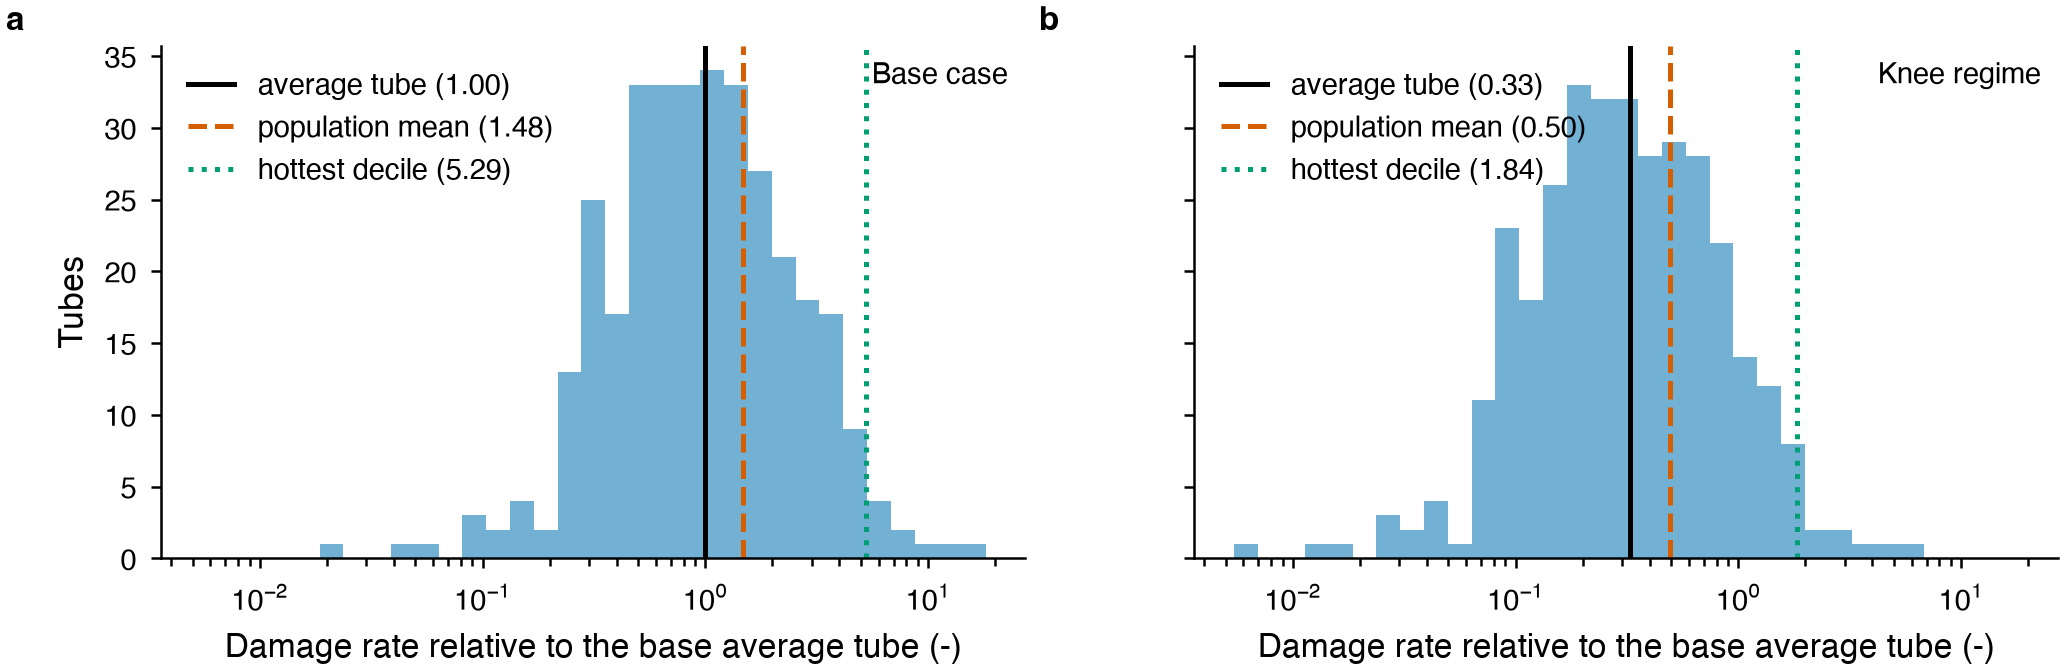
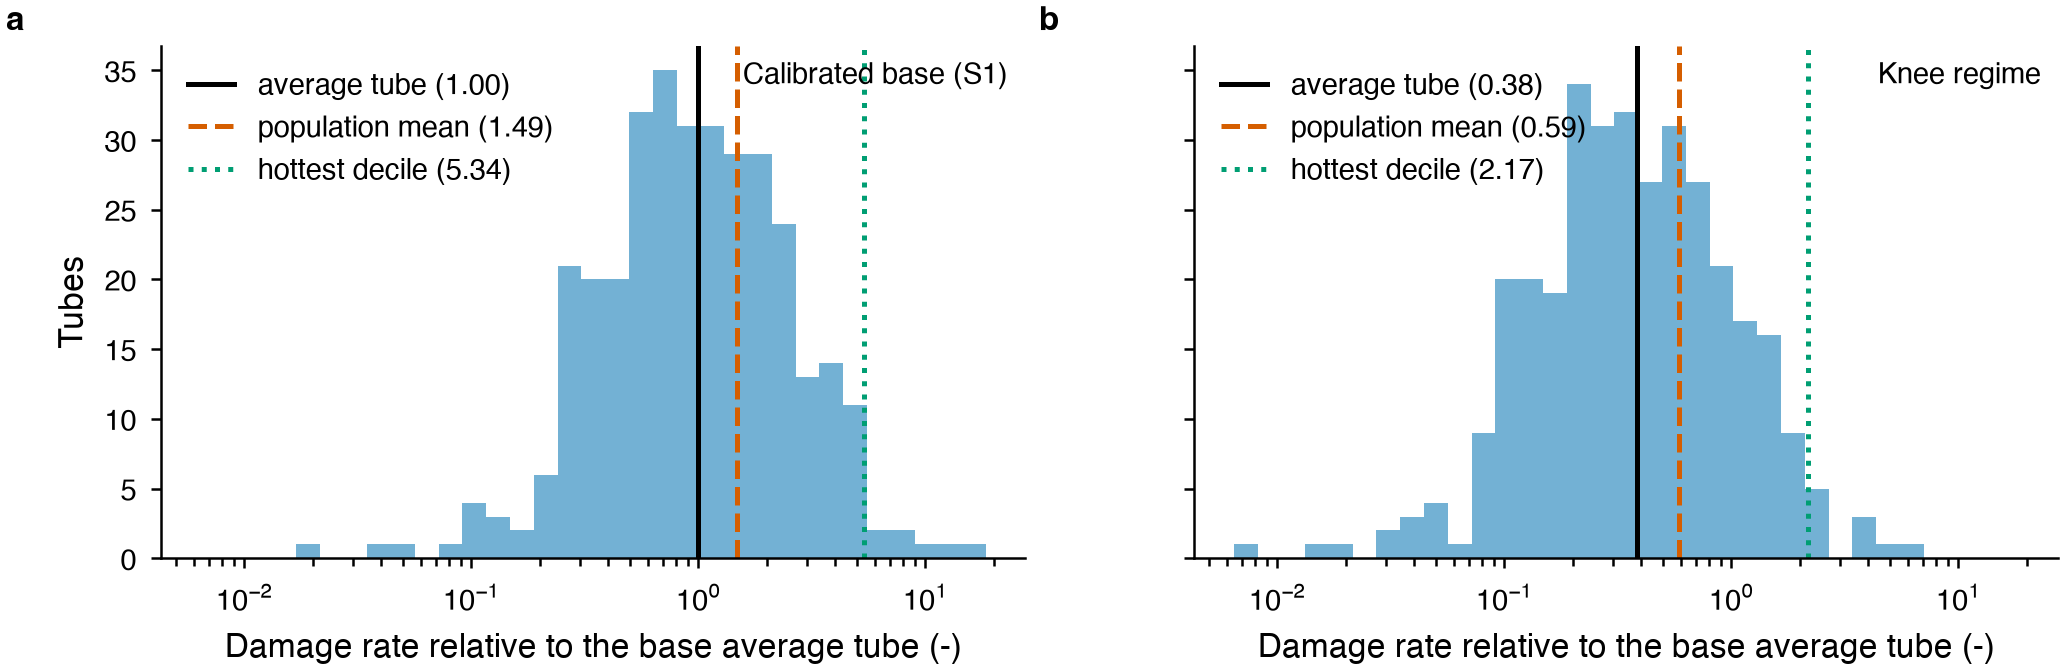
Insert the tube-population analysis as Section S10
New supplementary section, Table S10 and Figure S8 appended at the very
end of supplementary.tex, so that no existing S-item is renumbered and
the hard-typed "Table~S7"/"Fig.~S2" strings in main.tex keep resolving.

Main text: a pointer sentence in Section 2.3, a paragraph at the end of
Section 3.5, a replacement first paragraph of Section 4.3, and a reworded
next step in the conclusions. The replaced paragraph carried the claim
that the population scatter gives "a factor of two to four" between the
hottest and the average tube; computed, it is 16.5 at sigma = 18.5 K.
"Two to four" is the one-sigma tube, not the hottest of 336.

Four Table S10 cells corrected against data/population/ (5.35 -> 5.34,
5.3 -> 5.2, 1.76 -> 1.75, 44.8 -> 44.7); the same 1.76 -> 1.75 in
Section 3.5. Figure 16 re-anchored on S1_steady so that it and Table S10
describe one operating point; its legend now reads 1.49 and 5.34, matching
the table. No absolute life in years appears in either document.

Claude-Session: https://claude.ai/code/session_01JjCTZtXhTtnHWg99xFYTqU

diff --git a/paper/main.tex b/paper/main.tex
@@ -155,7 +155,7 @@ The rupture time follows the Larson--Miller parameter~\cite{larson1952},
 \mathrm{LMP} = 10^{-3}\,T\,\big(C + \log_{10} t_r\big), \qquad \log_{10}\sigma = P_3(\mathrm{LMP}),
 \label{eq:lmp}
 \end{equation}
-with $T$ in K, $t_r$ in h and $C = 18.6$, the constant printed on the Centralloy G 4852 data sheet, and $P_3$ a cubic master curve fitted separately to the Average and to the Lower Scatter Band curves of that sheet (Section~\ref{sec:data}). The sheet states the lower band as a 95\,\% confidence level, so the pair defines the scatter directly rather than by assumption: the median horizontal separation of the two curves at 1147\,K is 0.298 decades of rupture time, a standard deviation of 0.181 decades on $\log_{10} t_r$. The three sheets do not share a constant ($C = 18.6$ for G 4852, 22.9 for G 4852 Micro, 19.3 for ET 45 Micro), so the constant must be taken from the sheet whose curve is used. Damage under a piecewise-constant history is accumulated with the linear life-fraction rule of Robinson~\cite{robinson1952}, $D = \sum_k \Delta t_k / t_r(T_k, \sigma_k)$, and rupture is predicted at $D = 1$. Life is reported throughout as a consumption rate $1/t_r$ at the hot spot, or as damage per kmol of hydrogen relative to the calibrated base case, because ratios depend on the local slope of the master curve rather than on its absolute position; Section~\ref{sec:rq4} shows on four curves that they are indeed far more stable than absolute lives.
+with $T$ in K, $t_r$ in h and $C = 18.6$, the constant printed on the Centralloy G 4852 data sheet, and $P_3$ a cubic master curve fitted separately to the Average and to the Lower Scatter Band curves of that sheet (Section~\ref{sec:data}). The sheet states the lower band as a 95\,\% confidence level, so the pair defines the scatter directly rather than by assumption: the median horizontal separation of the two curves at 1147\,K is 0.298 decades of rupture time, a standard deviation of 0.181 decades on $\log_{10} t_r$. The three sheets do not share a constant ($C = 18.6$ for G 4852, 22.9 for G 4852 Micro, 19.3 for ET 45 Micro), so the constant must be taken from the sheet whose curve is used. Damage under a piecewise-constant history is accumulated with the linear life-fraction rule of Robinson~\cite{robinson1952}, $D = \sum_k \Delta t_k / t_r(T_k, \sigma_k)$, and rupture is predicted at $D = 1$. Life is reported throughout as a consumption rate $1/t_r$ at the hot spot, or as damage per kmol of hydrogen relative to the calibrated base case, because ratios depend on the local slope of the master curve rather than on its absolute position; Section~\ref{sec:rq4} shows on four curves that they are indeed far more stable than absolute lives. The rupture time so obtained is that of one average tube; the extension to the tube population is given in Section~S10.
 
 \subsection{Data}
 \label{sec:data}
@@ -399,6 +399,8 @@ The variance decomposition (Fig.~S2, Table~S9) attributes 86\,\% of the variance
 
 The robustness fractions (Table~\ref{tab:robust}) state which conclusions hold across the joint uncertainty. That the knee regime halves the life cost holds in 0.89 of the samples, that steam-to-carbon 3.5 is cheaper in life than 2.5 in 0.86, and that the fourth aging year costs more than twice the S1 life per kmol in 0.82; repeating the analysis on the other three curves leaves all three between 0.82 and 0.94, so they are properties of the process rather than of the alloy. The flexibility statements are different in kind. They hold in 0.43 and 0.48 of the samples on the base curve, are reversed in every sample under the bounding flame-length variant, in which the hot spot at 70\,\% load moves up the tube into the flame zone and the life cost per kmol rises to 1.66~times the base, and they cross 0.5 with the alloy as well (0.55 and 0.62 on the two curves with the higher Larson--Miller constant). Two independent features that the published data cannot identify --- the response of the heat-release profile to load and the local slope of the master curve --- therefore decide the sign of an effect whose magnitude is under 2\,\%.
 
+All of the above describes one average tube. Propagating a per-tube wall-temperature offset over the 336 tubes of the reference furnace (Section~S10) raises the population-mean damage rate above that of the average tube by 1.29, 1.49 and 1.75 for a population standard deviation of 15, 18.5 and 22~K, because the damage law is convex in wall temperature; the hottest decile of the population consumes life 3.9 to 7.4 times faster than the average tube and the hottest single tube by an order of magnitude. The correction is close to common across regimes (1.42--1.61 over the Pareto regimes), so the ranking of regimes by life consumption per kmol~H$_2$ is unchanged under both the population mean and the hottest decile; the only rows that exchange places are flexibility scenarios separated by less than 1\,\%, which is a further instance of the effect of Section~\ref{sec:rq2} being smaller than anything that can resolve it.
+
 % =====================================================================
 \section{Discussion}
 \label{sec:discussion}
@@ -417,7 +419,7 @@ The one structural assumption that changes a conclusion is how the heat-release 
 
 \subsection{Limitations}
 
-The model represents one average tube. Tube-to-tube variation in a top-fired furnace, caused by burner imbalance, row position and flow maldistribution, is of the order of 15--22~K (one standard deviation across the tube population~\cite{latham2011}), which by the Larson--Miller relation corresponds to a factor of two to four in rupture time between the hottest and the average tube. The measurement group of the uncertainty analysis ($\pm 10$~K) partly covers this, and a per-tube extension would replace the single wall-temperature offset by a distribution over the tube population, but the present results are statements about an average tube.
+The model represents one average tube. Tube-to-tube variation in a top-fired furnace, caused by burner imbalance, row position and flow maldistribution, has a standard deviation of 15--22~K across the tube population at a given elevation in the reference furnace~\cite{latham2011}. Section~S10 propagates that scatter through the rupture curve: the population mean exceeds the average tube by about 1.5 in damage rate, the hottest decile by 5.3 and the hottest of 336 tubes --- the one that decides when the furnace is retubed --- by 16.5 at $\sigma = 18.5$~K. Two things bound the last figure: the scatter is assumed normal and the hottest tube is the extreme of that assumed tail, so the hottest decile is the more robust statistic; and the maximum of a bundle is itself a random variable, with a 5--95\,\% range of 8.3--25.3 over repeated bundles. The measurement group of the uncertainty analysis ($\pm 10$~K) is a different quantity, an epistemic offset of the pyrometer reference common to all tubes rather than the spread between them, and the two are not combined. A per-tube wall-temperature distribution measured by a pyrometer survey would replace the assumed normal and would also bound the tail directly.
 
 The life model covers creep only. Thermal fatigue during start-up and shutdown, creep--fatigue interaction and carburisation are not modeled, and the hoop stress is the pressure stress alone. The elastic thermal stress from the radial temperature gradient is about 45~MPa, several times the hoop stress (Section~S1); in steady operation it relaxes by creep and is conventionally excluded from the design stress, but it is the driver of damage during thermal cycling. The scenario results should therefore be read as the creep-life cost of the scenarios, not their total life cost, and the ranking of flexible-operation scenarios could change if the number of thermal cycles were counted.
 
@@ -437,7 +439,7 @@ A physics-informed digital twin of an industrial top-fired steam methane reforme
 \item The calibrated base is Pareto-dominated: a knee regime gives $+15$\,\% hydrogen at $-17$\,\% fuel per kmol and 0.28 of the life cost, and at constant production the life cost can be cut to 0.12. The optimal steam-to-carbon ratio depends on the steam credit, moving from 4.0 to 2.7 when steam raising is charged in full.
 \item The 90\,\% uncertainty on the absolute rupture time spans a factor of about 180, dominated by creep-curve scatter (86\,\%), while paired ratios between regimes remain tight. The aging, knee and steam-to-carbon conclusions hold in 82\,\% to 88\,\% of the samples on the base curve and in 82\,\% to 94\,\% across four rupture curves; the flexible-operation conclusion survives neither a load-dependent flame length nor a change of alloy.
 \end{itemize}
-The next steps are rupture data resolved by heat for the HP-Nb and HK40 families, a per-tube extension with a measured wall-temperature distribution, and, above all, a multi-elevation pyrometer survey at several firing rates. The sign of the life cost of flexible operation is decided jointly by the flame-length response to load and by the local slope of the rupture curve, and neither is identified by the published data.
+The next steps are rupture data resolved by heat for the HP-Nb and HK40 families, a measured per-tube wall-temperature distribution to replace the normal scatter assumed in the population extension, and, above all, a multi-elevation pyrometer survey at several firing rates. The sign of the life cost of flexible operation is decided jointly by the flame-length response to load and by the local slope of the rupture curve, and neither is identified by the published data.
 
 % =====================================================================
 \section*{Data and code availability}

diff --git a/paper/supplementary.tex b/paper/supplementary.tex
@@ -360,6 +360,85 @@ The one-group-at-a-time shares sum to unity within 0.04, so the four groups act 
 \label{fig:timeseries}
 \end{figure}
 
+% =====================================================================
+\section{Extension to the tube population}
+\label{sec:population}
+
+The life results of the main text are statements about one average tube. The reference
+furnace has 7 rows of 48 tubes, and the standard deviation of the wall temperature across
+that population at a given elevation is 15--22~K~\cite{latham2011}. Because the damage
+rate is convex in wall temperature, the mean damage rate of the population is larger than
+the damage rate evaluated at the mean temperature, and the tube that decides when the
+furnace is retubed is not the average tube but the hottest one.
+
+The extension assigns each of the $N_t = 336$ tubes a wall-temperature offset
+$\Delta T_i \sim \mathcal{N}(0, \sigma^2)$, held fixed over the year rather than resampled
+hourly, and evaluates the rupture time at $T_{\mathrm{wo,max}} + \Delta T_i$ on the same
+master curve and at the same hoop stress. Firing, feed and pressure are common to the
+bundle, so the hoop stress is common as well and the process model is not re-entered per
+tube. Table~\ref{tab:population} reports the result at the calibrated base as ratios to
+the average tube; absolute lives are not quoted, for the reasons given in Section~4.3 of
+the main text.
+
+\begin{table}[h]
+\centering\footnotesize
+\caption{Damage-rate multipliers relative to the average tube for a population of 336
+tubes at the calibrated base (S1, firing solved to hold the measured outlet temperature),
+as a function of the population standard deviation $\sigma$.
+The analytic column is the closed-form lognormal result
+$\exp\!\big[(a\ln 10\,\sigma)^2/2\big]$ with $a = 0.0225$ decades per kelvin, the local
+slope of $\log_{10} t_r$ against wall temperature at this point. The hottest-tube column
+is the maximum of one bundle; the last two columns give its mean, standard deviation and
+5--95\,\% range over 200 independent bundles, since a single furnace is one draw.}
+\label{tab:population}
+\begin{tabular}{lccccccc}
+\toprule
+$\sigma$ (K) & population mean & analytic & hottest decile & p95 tube & hottest tube & over 200 bundles & 5--95\,\% \\
+\midrule
+15.0 & 1.29 & 1.35 & 3.86 & 3.32 & 9.9  & $9.0 \pm 2.6$  & 5.6--14.1 \\
+18.5 & 1.49 & 1.58 & 5.34 & 4.37 & 16.5 & $14.8 \pm 5.2$ & 8.3--25.3 \\
+22.0 & 1.75 & 1.92 & 7.43 & 5.73 & 27.2 & $24.2 \pm 10.2$ & 12.2--44.7 \\
+\bottomrule
+\end{tabular}
+\end{table}
+
+The sampled population mean sits within one Monte Carlo standard error of the closed-form
+result at every $\sigma$. Repeating the sampling with $4 \times 10^5$ tubes isolates the
+residual bias of the closed form at 1.5--4.5\,\%, systematically negative because the
+slope $a$ falls as $1/T^2$, so the hot tail gains slightly less life consumption than a
+constant-slope lognormal assumes. The closed form is therefore a usable approximation for
+the population mean, and the reported values are the sampled ones.
+
+Two qualifications bound the hottest-tube figures. The scatter is assumed normal, and the
+hottest tube is the extreme of that assumed tail, so its multiplier inherits whatever the
+tail shape is; the hottest decile is the more robust statistic and is quoted in the main
+text alongside it. And the maximum of a bundle is itself a random variable, which is why
+the spread over 200 bundles is given: two nominally identical furnaces differ by a factor
+of three in the life of their worst tube at $\sigma = 18.5$~K.
+
+The population correction is close to common across operating regimes: over the Pareto
+regimes of Table~3 of the main text it ranges from 1.42 for the hottest regime
+(maximum hydrogen) to 1.61 for the coolest (minimum life overall), so it compresses the
+spread between regimes slightly without reordering them. Under the population mean the
+ranking of the RQ3 regimes by life consumption per kmol~H$_2$ is identical to the ranking
+of the average tube, and it remains identical under the hottest decile. Among the twenty
+RQ2 scenario rows, two change rank under the population mean and three under the hottest
+decile; all of them lie between ranks 13 and 15 and the pairs that exchange places are
+S3 against S4c and S2 against S4c, separated by 0.47\,\% and 0.78\,\% on the average tube.
+Every conclusion drawn in the main text --- the ageing ratio, the steam-to-carbon
+comparison and the knee against the base --- keeps both its order and its margin.
+
+\begin{figure}[h]
+\centering
+\includegraphics[width=\textwidth]{fig16_population_damage}
+\caption{Distribution of the per-tube damage rate over the population of 336 tubes at
+$\sigma = 18.5$~K, normalized to the average tube of the base case, for (a) the calibrated
+base and (b) the knee regime, with the average tube, the population mean and the hottest
+decile marked. The whole distribution of the knee regime lies about half a decade to the
+left of the base.}
+\label{fig:population}
+\end{figure}
+
 \begin{thebibliography}{99}
 \bibitem{xu1989a} J. Xu, G.~F. Froment, Methane steam reforming, methanation and water-gas shift: I. Intrinsic kinetics, AIChE J. 35 (1989) 88--96.
 \bibitem{xu1989b} J. Xu, G.~F. Froment, Methane steam reforming: II. Diffusional limitations and reactor simulation, AIChE J. 35 (1989) 97--103.

diff --git a/src/rdt/population.py b/src/rdt/population.py
@@ -403,6 +403,9 @@ def figure_damage_distributions(cfg: C.RunConfig, states: Mapping[str, TubeState
                                 stem: Optional[Path] = None) -> List[Path]:
     """Per-tube damage-rate distribution at the base point and at the knee regime, on a common axis.
 
+    ``states`` must supply the keys ``"base"`` and ``"knee"``. The base panel uses the S1_steady anchor,
+    the same operating point the reported table is built on, so that the two agree cell for cell.
+
     Both panels are normalised by the *base* average-tube rate, so the horizontal shift between them is
     the life cost of the regime and the width of each is the population scatter.
     """
@@ -410,7 +413,7 @@ def figure_damage_distributions(cfg: C.RunConfig, states: Mapping[str, TubeState
 
     stem = Path(stem or (cfg.figures_dir / "fig16_population_damage"))
     ref = float(1.0 / np.asarray(curve.time_to_rupture(states["base"].T_wo_max_K, states["base"].sigma_hot_MPa)))
-    panels = [("base", "a", "Base case"), ("knee", "b", "Knee regime")]
+    panels = [("base", "a", "Calibrated base (S1)"), ("knee", "b", "Knee regime")]
     data = {k: damage_rates(curve, states[k].T_wo_max_K, states[k].sigma_hot_MPa, dT) / ref for k, _, _ in panels}
     allv = np.concatenate(list(data.values()))
     bins = np.logspace(np.log10(allv.min()) - 0.05, np.log10(allv.max()) + 0.05, 34)
@@ -680,7 +683,10 @@ def main(argv: Optional[Sequence[str]] = None) -> int:
     print(f"         {a.out_dir / f'population_{cfg.tag}.json'}")
 
     if not a.no_figure:
-        paths = figure_damage_distributions(cfg, res["regime_states"], res["dT"], res["curve"], base_sigma)
+        # the base panel uses the S1_steady anchor, so that the figure and the reported table
+        # describe the same operating point
+        panel_states = {"base": res["anchors"]["S1_steady"], "knee": res["regime_states"]["knee"]}
+        paths = figure_damage_distributions(cfg, panel_states, res["dT"], res["curve"], base_sigma)
         for q in paths:
             print(f"         {q}")
     return 0
